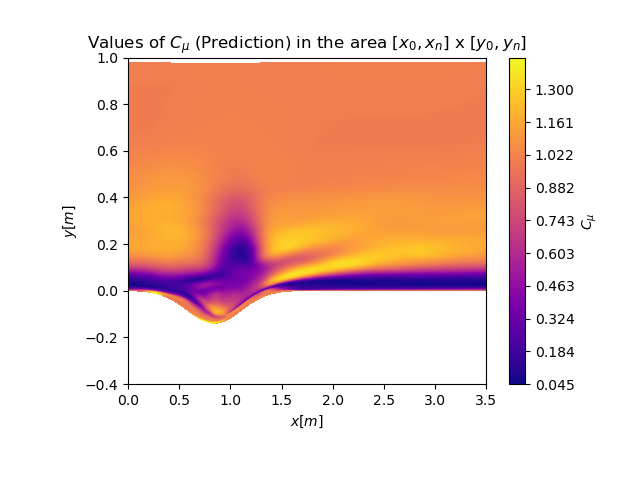
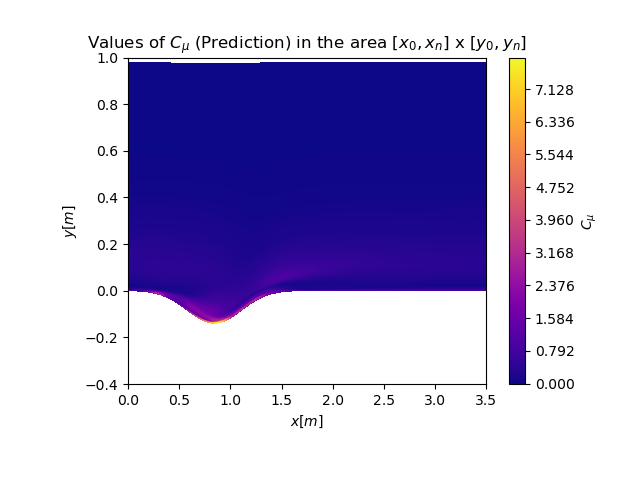
testing conditions

diff --git a/pl_vect2d-1.py b/pl_vect2d-1.py
@@ -180,9 +180,9 @@ omega = eps_DNS2d / k2d / 0.09
 
 # Compute C_my and ||duidxj|| to train model
 cmy_DNS = np.array(-uv2d / (k2d * (dudy + dvdx)) * omega)
-cmy_DNS = np.where(abs(dudy + dvdx) < 1, 1, cmy_DNS)
+# cmy_DNS = np.where(abs(dudy + dvdx) < 1, 1, cmy_DNS)
 cmy_DNS = np.where(cmy_DNS > 0, cmy_DNS, 1)
-cmy_DNS = np.where(cmy_DNS <= 2, cmy_DNS, 1)
+cmy_DNS = np.where(cmy_DNS <= 3, cmy_DNS, 1)
 
 duidxj = np.array((dudx ** 2 + 0.5 * (dudy ** 2 + 2 * dudy * dvdx + dvdx ** 2) + dvdy ** 2) ** 0.5)
 
@@ -375,9 +375,9 @@ print("Starting ML new case")
 omega_large = eps_DNS2d_large / k_DNS2d / 0.09
 
 cmy_DNS_large = np.array(-uv2d_large / (k_DNS2d * (dudy_large + dvdx_large)) * omega_large)
-cmy_DNS_large = np.where(abs(dudy_large+dvdx_large) < 1, 1, cmy_DNS_large)
+# cmy_DNS_large = np.where(abs(dudy_large+dvdx_large) < 1, 1, cmy_DNS_large)
 cmy_DNS_large = np.where(cmy_DNS_large > 0, cmy_DNS_large, 1)
-cmy_DNS_large = np.where(cmy_DNS_large <= 2, cmy_DNS_large, 1)
+cmy_DNS_large = np.where(cmy_DNS_large <= 3, cmy_DNS_large, 1)
 
 # plt.figure()
 # plt.plot(yp2d_large[-1,:],uv2d_large[-1,:], 'o')
